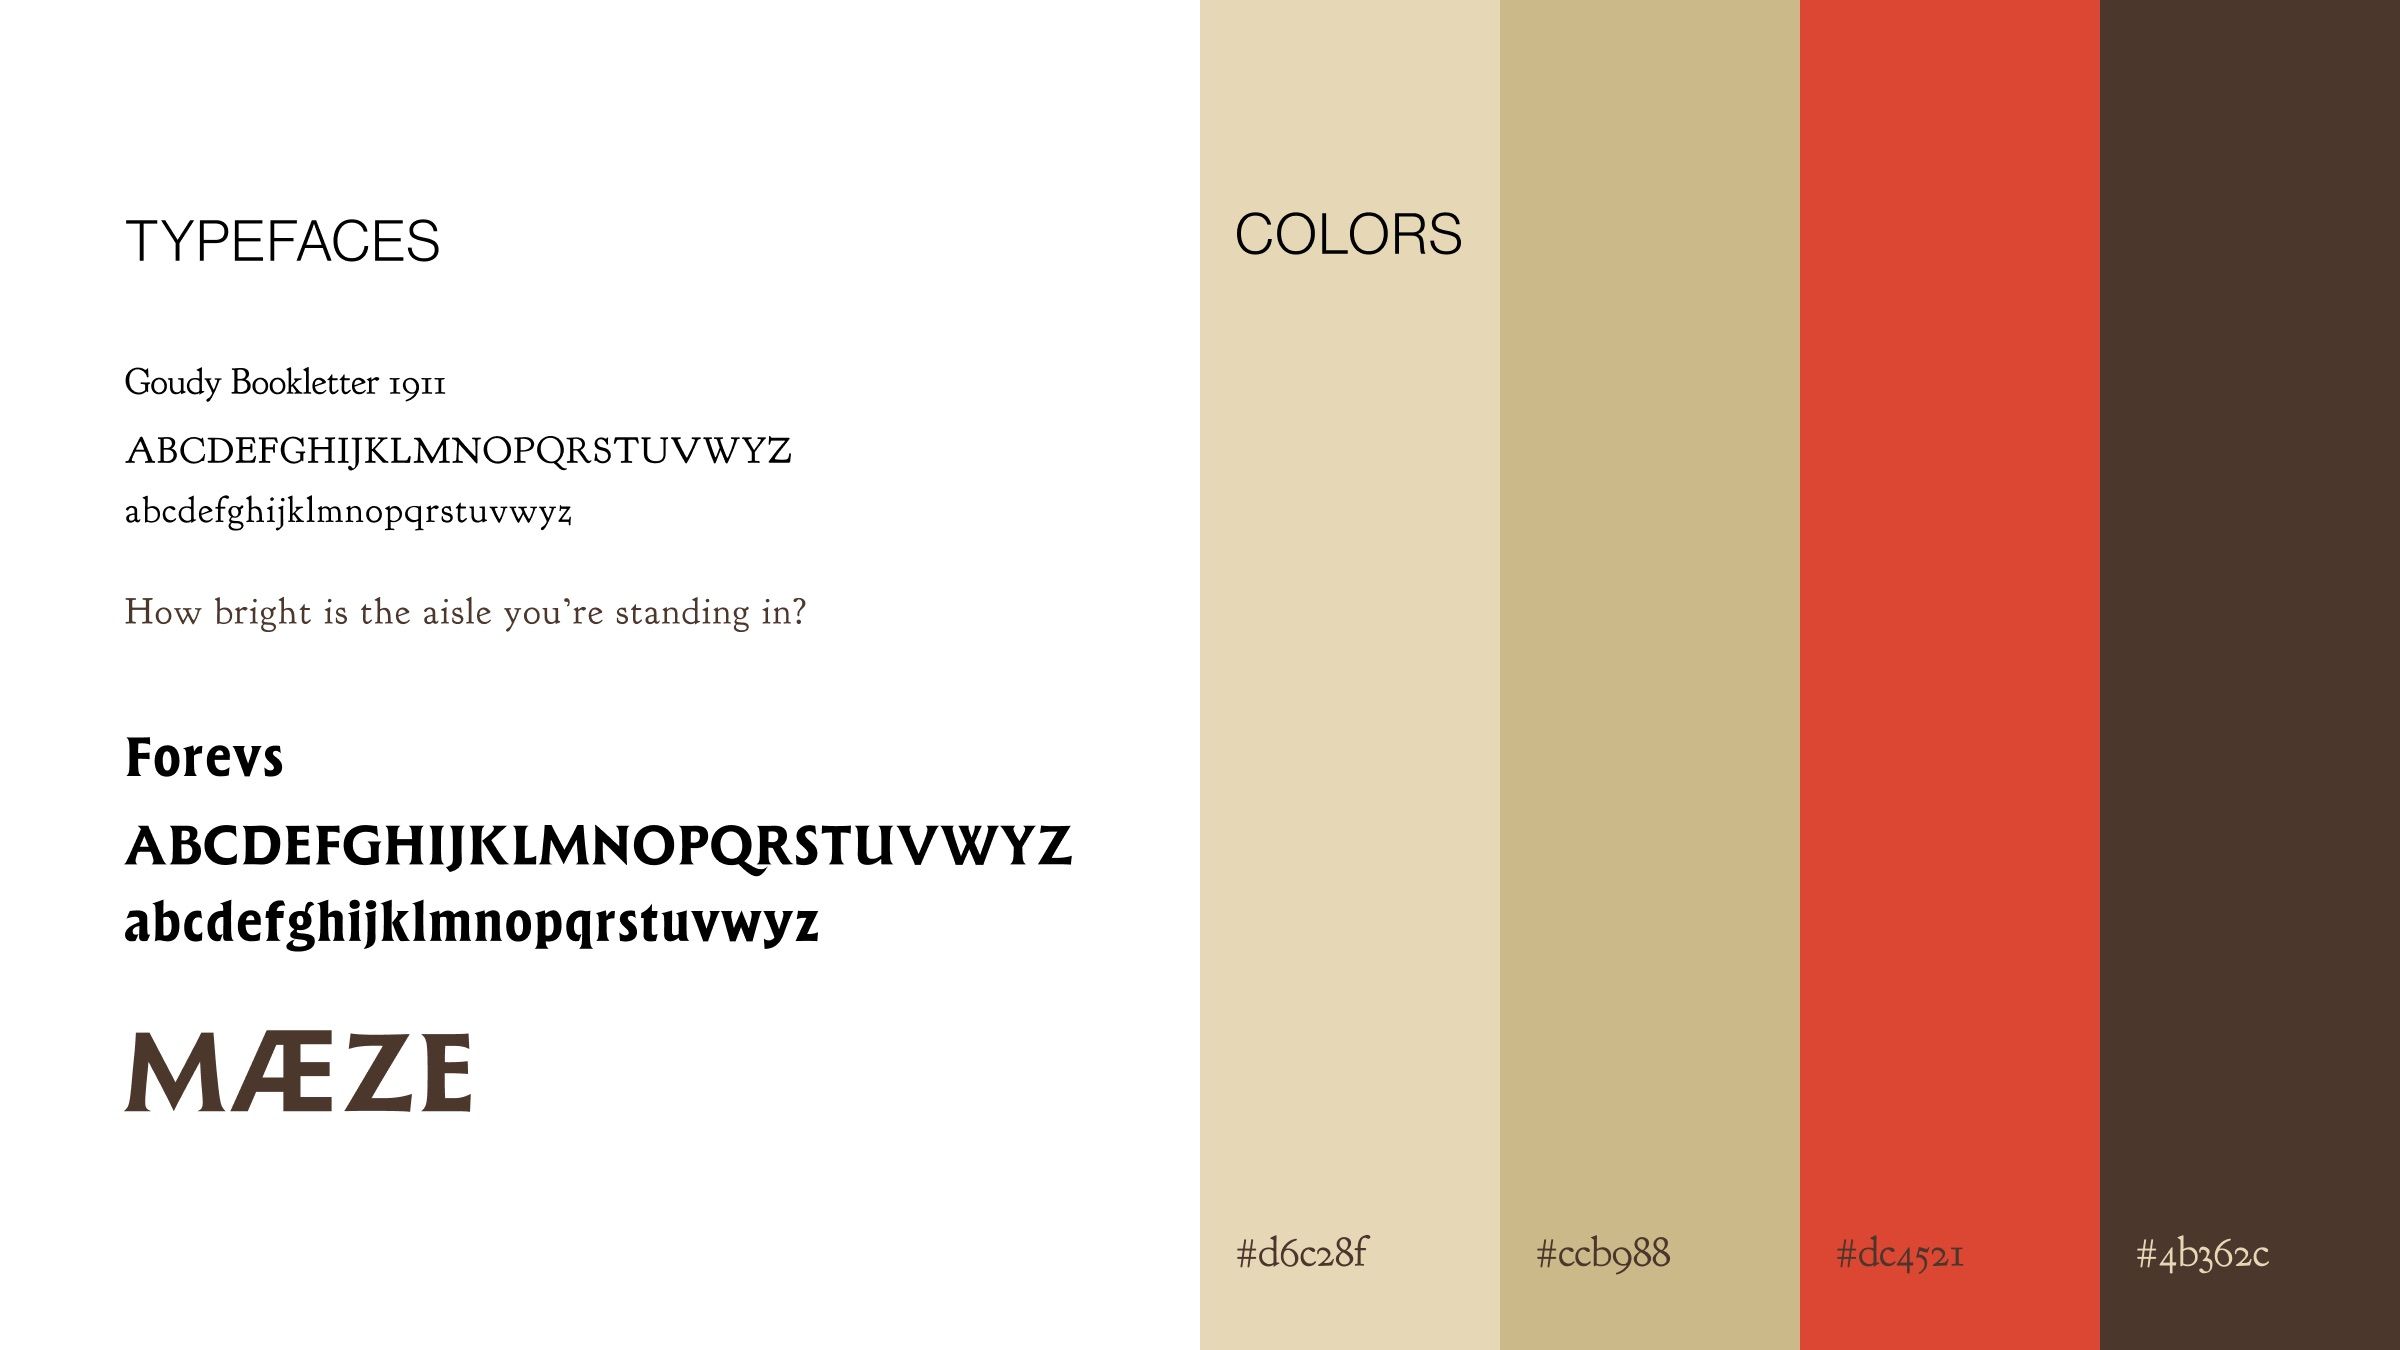
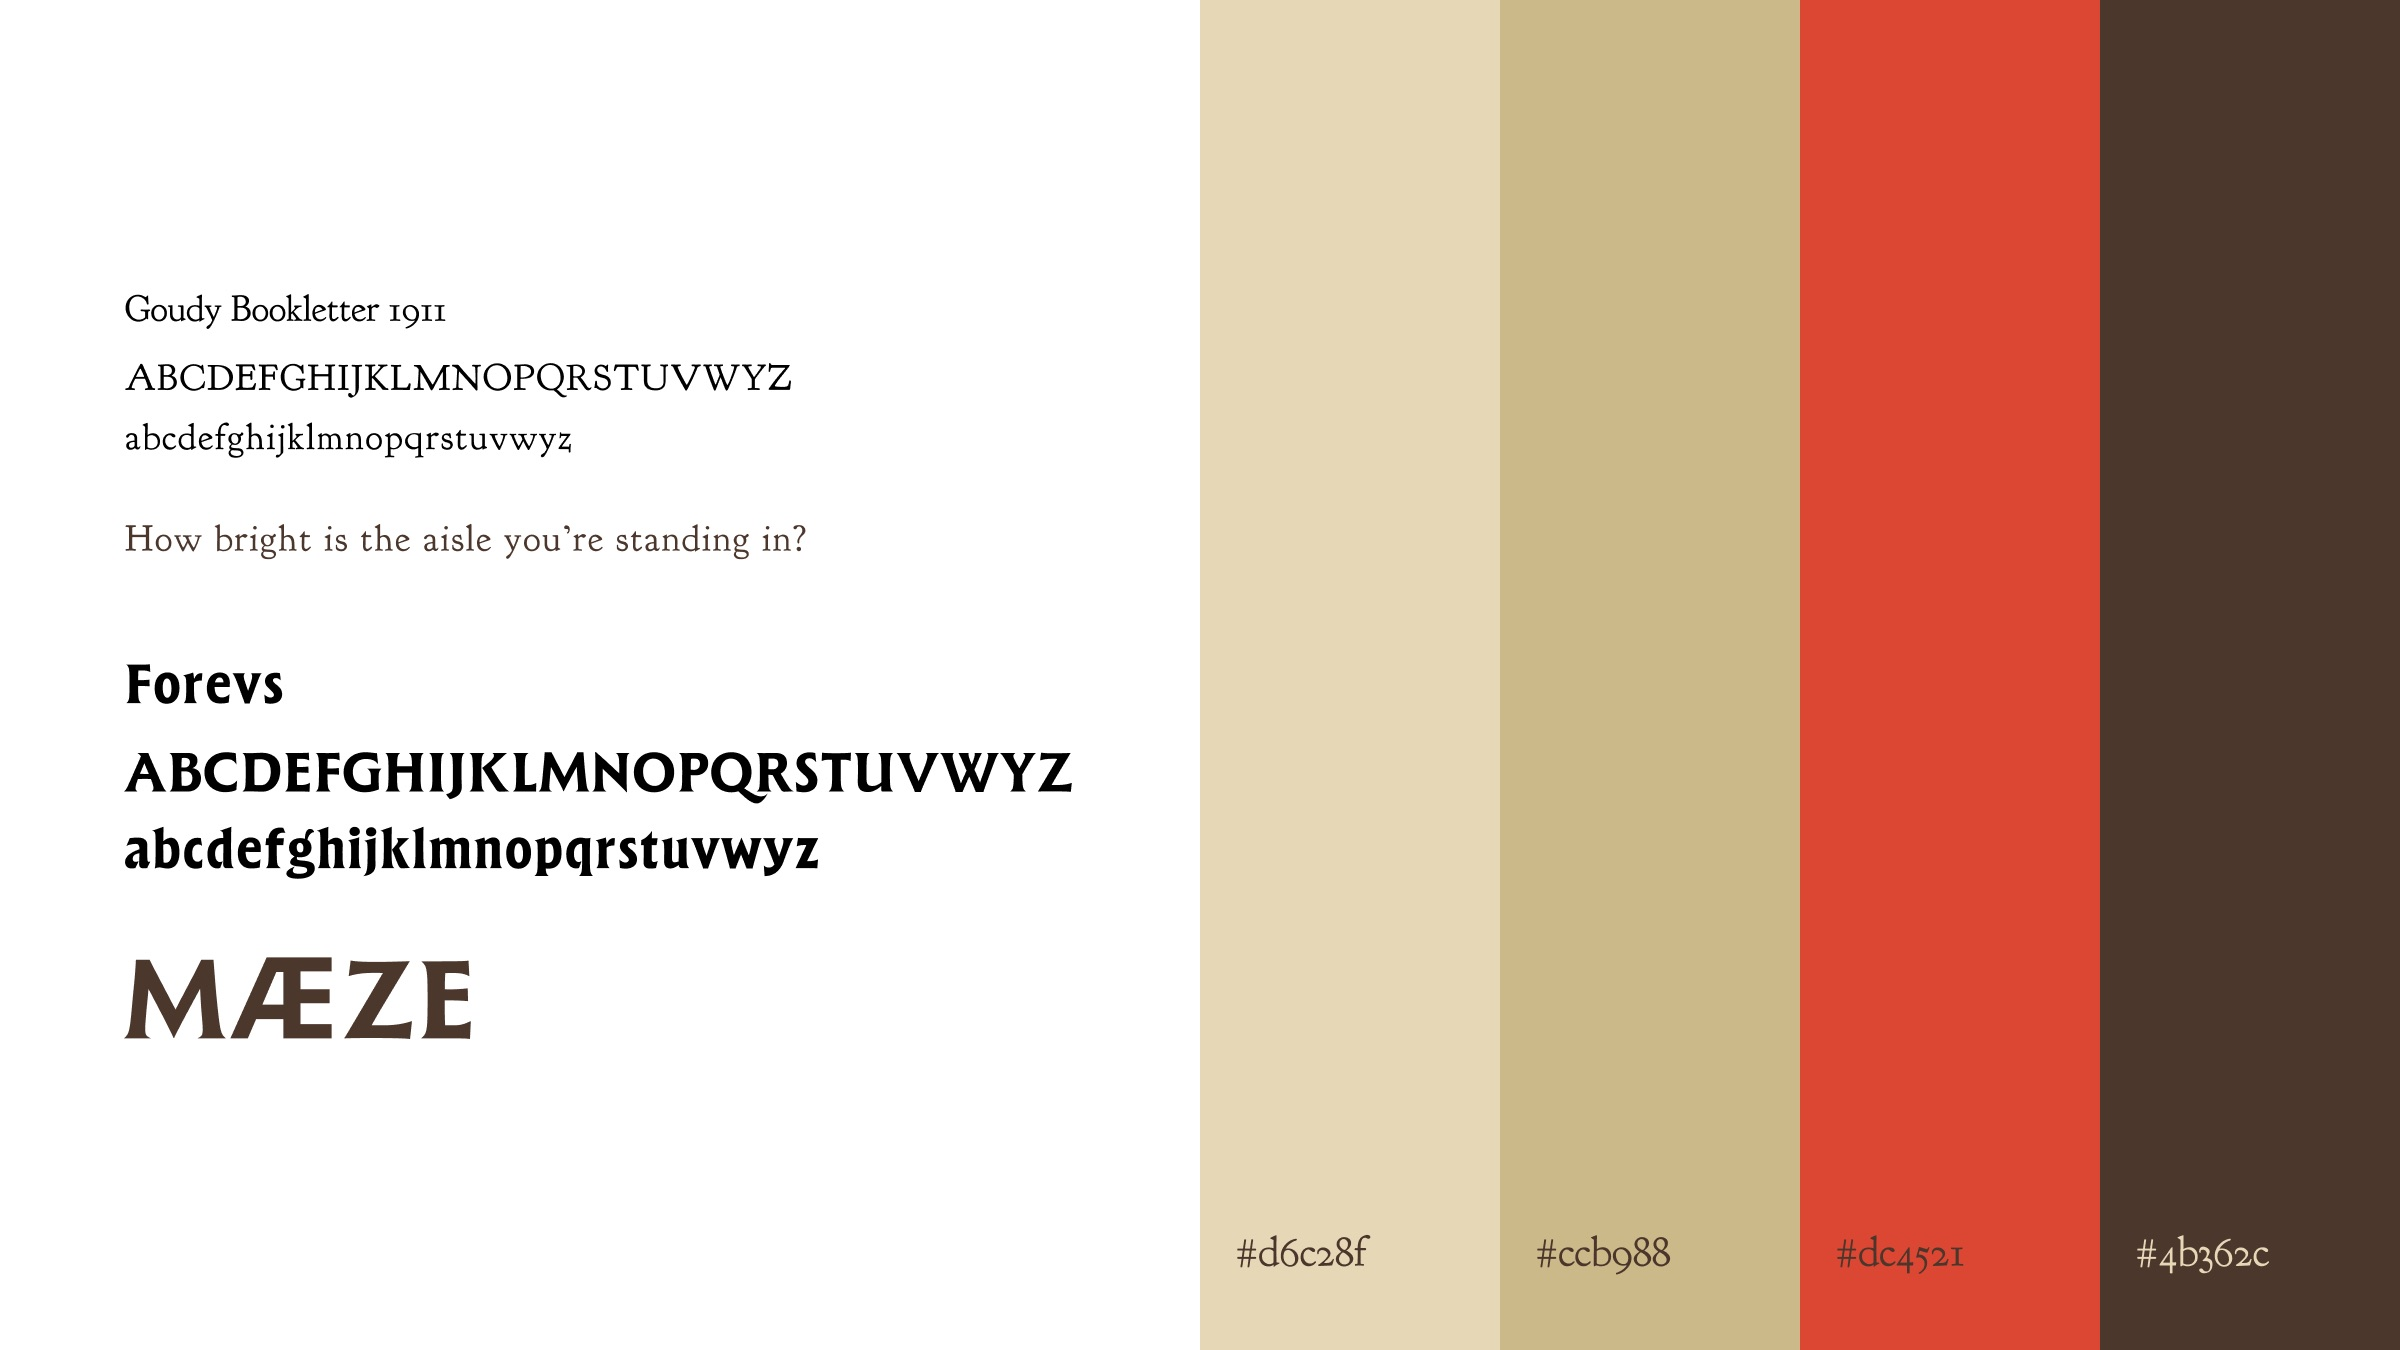
MÆZE: remove headings from design system slide

diff --git a/maze.html b/maze.html
@@ -32,7 +32,7 @@
       <div class="desc-col"><p class="body desc-fill">A wayfinding prototype for the Providence Athenæum, made with the team ÆEEEE. Six questions lead the visitor from the card catalog, through the stacks and into one book, narrowing some 176,800 volumes to a single word. App&nbsp;prototype, iconography and poster. Type in Goudy Bookletter 1911 and <span class="nowrap">Forevs.</span></p><a class="label plain" href="https://jkwon20241.github.io/maze/" target="_blank" rel="noopener">Prototype ↗</a></div>
     </div>
     <div class="gallery two-up">
-    <img class="shot" src="img/maze-02.jpg?v=20261114d" alt="MÆZE" loading="lazy" width="2400" height="1350">
+    <img class="shot" src="img/maze-02.jpg?v=20261114e" alt="MÆZE" loading="lazy" width="2400" height="1350">
     <img class="shot" src="img/maze-03.jpg?v=20261114d" alt="MÆZE" loading="lazy" width="2400" height="1350">
     <img class="shot" src="img/maze-04.jpg?v=20261114d" alt="MÆZE" loading="lazy" width="2400" height="1350">
     <img class="shot" src="img/maze-05.jpg?v=20261114d" alt="MÆZE" loading="lazy" width="2400" height="1350">
